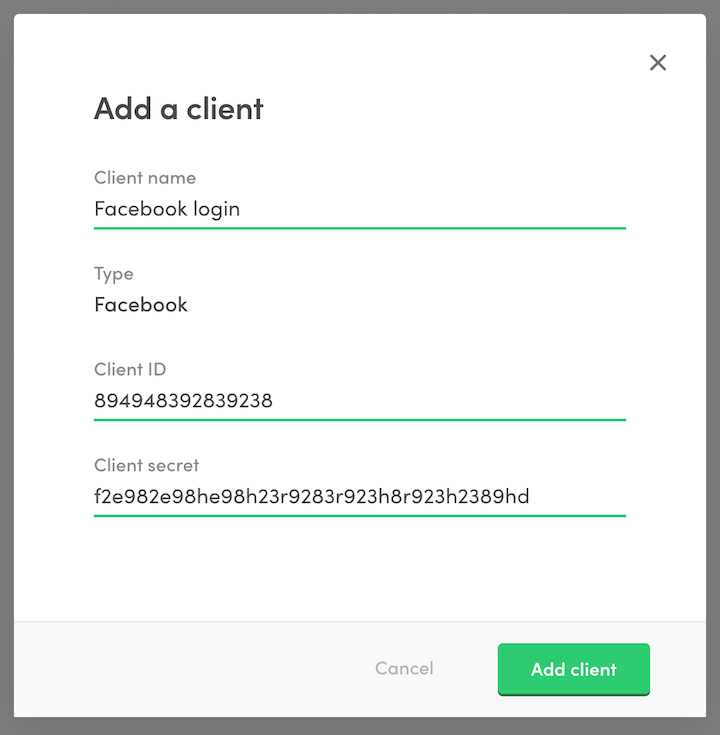
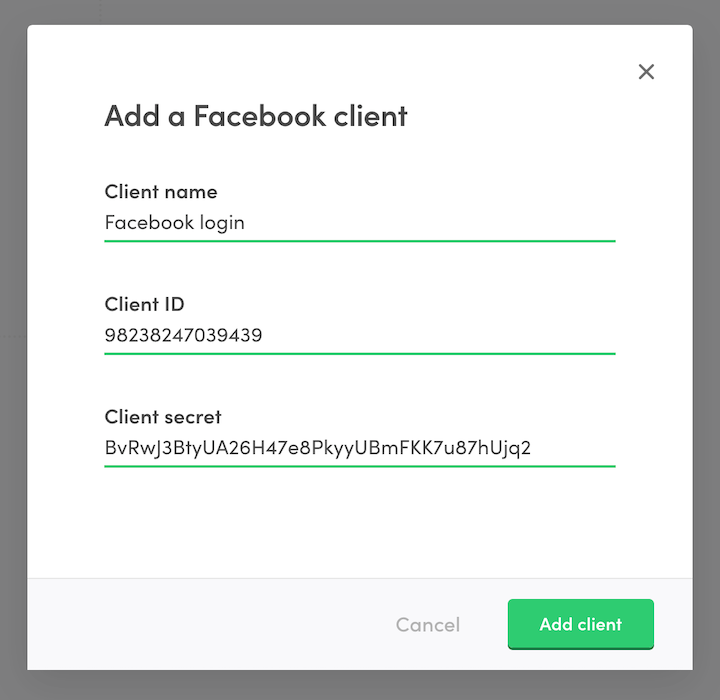
Update FB cookbook to match current Console design

diff --git a/src/docs/cookbook-social-logins-and-sso/enable-facebook-login/index.md b/src/docs/cookbook-social-logins-and-sso/enable-facebook-login/index.md
@@ -114,9 +114,8 @@ when a user logs in.
 
 An identity provider client can be configure with the following steps:
 
-1. Go to [Console](https://flex-console.sharetribe.com/) and select
-   _Identity providers_ under _Build_.
-2. Click "+ Add new".
+1. Go to [Social logins & SSO in Console](https://flex-console.sharetribe.com/social-logins-and-sso).
+2. Under _Identity provider clients_ click "+ Add new".
 3. Set "Client name". This can be anything you choose, for example,
    "Facebook login". In case you need to create multiple Facebook apps,
    this will help you make a distinction between the corresponding IdP

diff --git a/src/docs/background/social-logins-and-sso/index.md b/src/docs/background/social-logins-and-sso/index.md
@@ -59,4 +59,4 @@ request to the identity provider.
 
 See the following cookbook for details on taking Facebook login into
 use:
-[enabling Facebook login](/cookbook-social-logins-and-sso/enable-facebook-login/).
+[Enable Facebook login](/cookbook-social-logins-and-sso/enable-facebook-login/).
